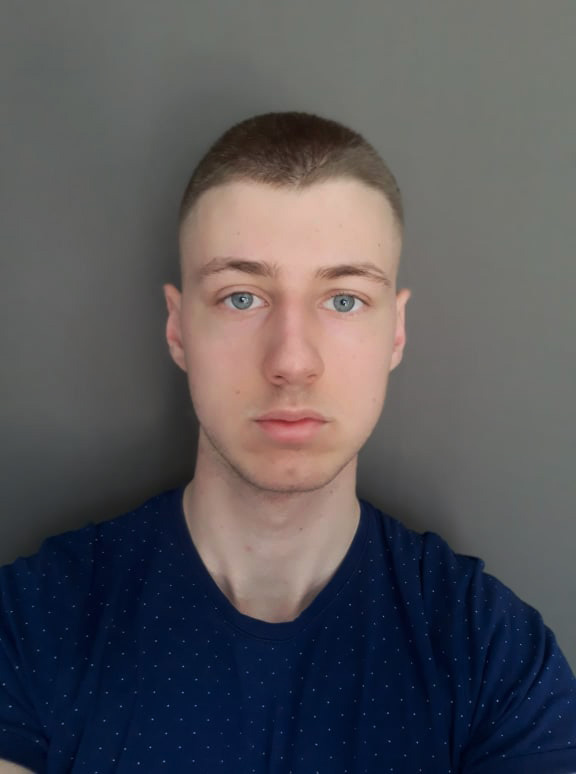
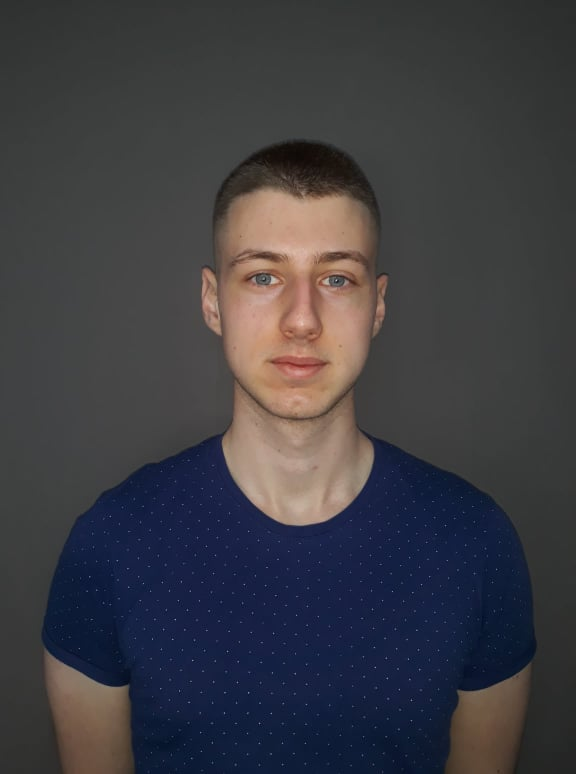
update photo and fix responsive issues

diff --git a/templates/experience.html b/templates/experience.html
@@ -112,7 +112,7 @@
 					
 					<!-- Experience -->
 
-					<div class="experience">
+					<div class="experience col-xl-8">
 						
 						<!-- Experience Item -->
 						<div class="exp_item d-flex flex-md-row flex-column align-items-start justify-content-start">
@@ -147,11 +147,11 @@
 							<div><div class="exp_time">React.js</div></div>
 							<div class="exp_content">
 								<div class="exp_title_container">
-									<div class="exp_title">Feed The Donut Monster</div>
-									<div class="exp_subtitle"><a href="https://github.com/DanielJordanov01/feed_the_donut_monster">https://github.com/DanielJordanov01/feed_the_donut_monster</a></div>
+									<div class="exp_title">Face Recognition Brain</div>
+									<div class="exp_subtitle"><a href="https://github.com/DanielJordanov01/feed-the_monster">https://github.com/DanielJordanov01/feed-the_monster</a></div>
 								</div>
 								<div class="exp_text">
-									<p>An interactive app created with React.</p>
+									<p>Project which was created while learning React. The application detects faces in provided picture.</p>
 								</div>
 							</div>
 						</div>

diff --git a/static/styles/experience_responsive.css b/static/styles/experience_responsive.css
@@ -104,6 +104,10 @@
 		right: auto;
 		bottom: 10px;
 	}
+	.main_content
+	{
+	width: calc(100% - 410px);
+	}
 }
 
 /************
@@ -192,7 +196,10 @@
 
 @media only screen and (max-width: 880px)
 {
-	
+	.experience
+	{
+		overflow: visible;
+	}
 }
 
 /************

diff --git a/static/styles/experience.css b/static/styles/experience.css
@@ -652,7 +652,6 @@ section
 {
 	margin-top: 80px;
 	max-height: calc(100% - 183px - 134px);
-	padding-right: 100px;
 }
 .mCS-minimal.mCSB_scrollTools .mCSB_draggerRail, .mCS-minimal-dark.mCSB_scrollTools .mCSB_draggerRail
 {
